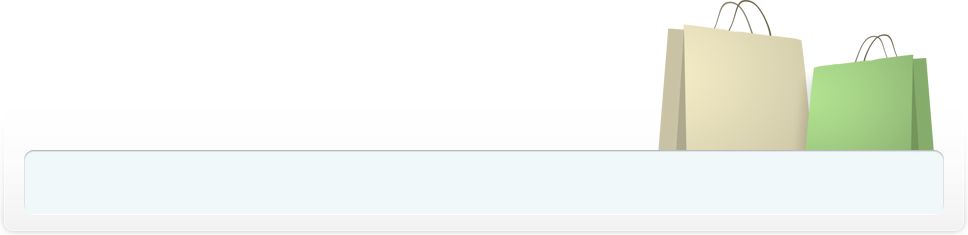
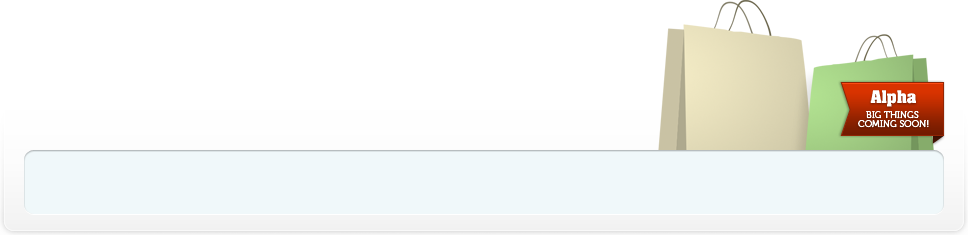
added alpha label in header image among other fixes

Changed region(s): [[0.8678, 0.3277, 0.9917, 0.6255]]

diff --git a/public/stylesheets/application.css b/public/stylesheets/application.css
@@ -192,3 +192,5 @@ span.tool-tip a {color: #FFF;-moz-border-radius:3px;-webkit-border-radius:3px;bo
 .footer .sinefunc-brand {margin-right: 10px !important;}
 .footer .sinefunc-brand a {padding-top: 36px; background: url(../images/sinefunc-brand.png) no-repeat; width: 176px; margin-bottom: 10px;}
 .footer .copyright {line-height: 36px;}
+
+#fdbk_tab {bottom: 55%; top: auto !important;}
